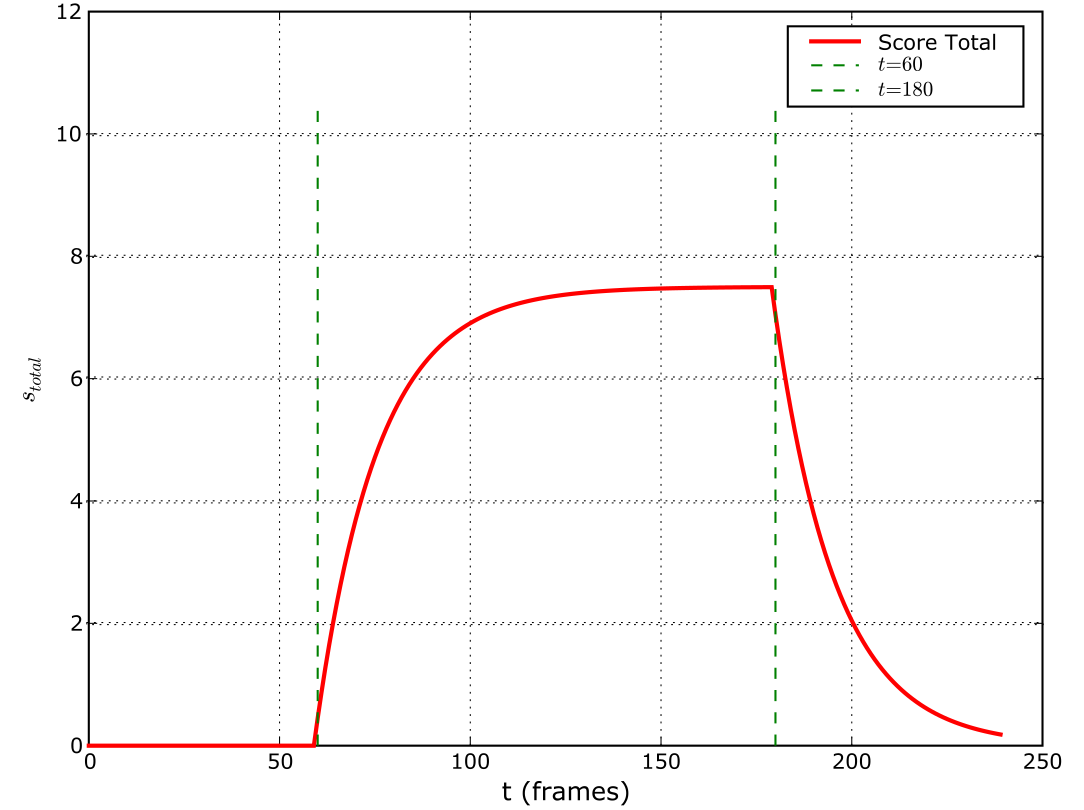
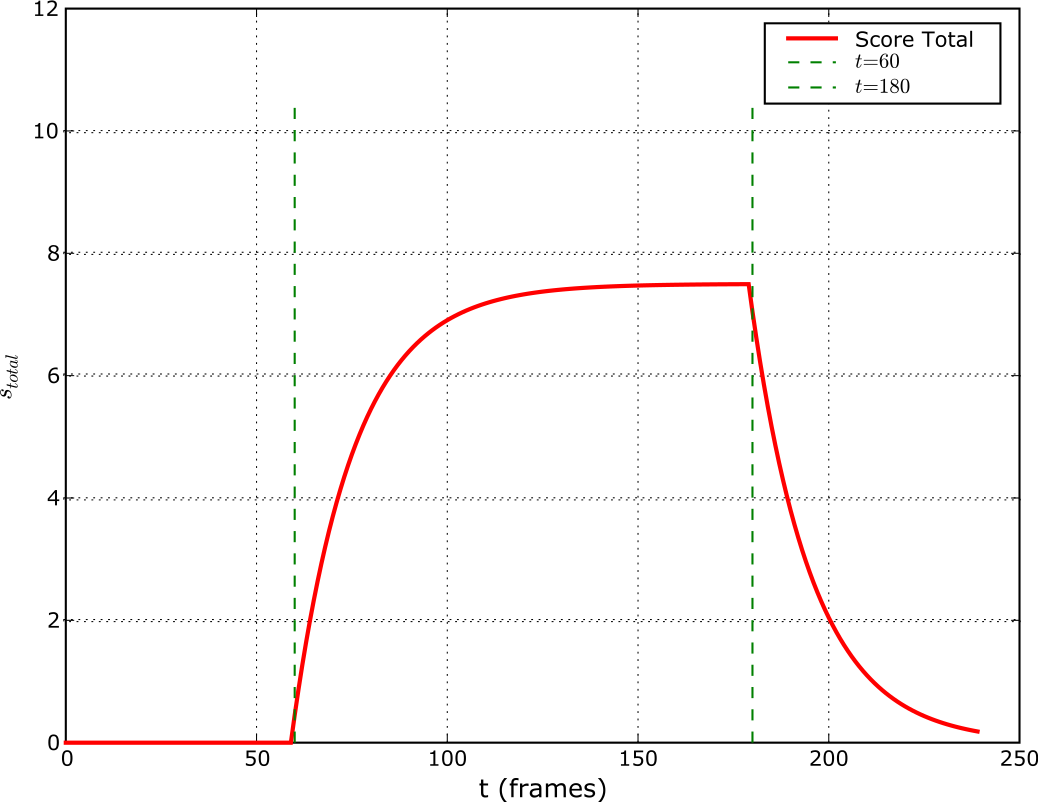
ch2 cleanup 36

diff --git a/chapitre2.tex b/chapitre2.tex
@@ -721,7 +721,7 @@ La technique \emph{AttachedShock} s'est montrée meilleure que toutes les autres
 		\begin{subfigure}[t]{0.49\textwidth}
 			\centering
 			\includegraphics[width=\textwidth]{figures/ch2/smartRayLocation}
-			\caption{Pour les cibles dont les identifiants sont faibles (plutôt situées vers la gauche) le \emph{Smart Ray} fournit de bons résultats, mais ils sont très mauvais pour les cibles dont les identifiants sont élevés (à droite). Or, tous les sujets de l'évaluation étaient droitiers, donc le rayon venait également de la droite, et rencontrait beaucoup d'obstacles.}
+			\caption{Pour les cibles dont les identifiants sont faibles (plutôt situées vers la gauche) le \emph{Smart Ray} fournit de bons résultats, mais ils sont mauvais pour les cibles d'identifiant sont élevé (à droite). Tous les sujets de l'évaluation étaient droitiers, donc le rayon venait également de la droite, et rencontrait beaucoup d'obstacles.}
 			\label{fig:smartRayLocation}
 		\end{subfigure}
 		\caption[Performances du \emph{raycasting} avec désambiguïsation]{Performances du \emph{raycasting} avec désambiguïsation. Crédit : \cite{grossman2006design}.}
@@ -892,10 +892,10 @@ La technique \emph{AttachedShock} s'est montrée meilleure que toutes les autres
 	
 	En pratique, dans~\cite{kopper2011rapid}, SQUAD fut évaluée avec des objets uniformes : des sphères de rayons identiques. Seule la couleur variait, avec du gris pour des distracteurs et du rouge pour la cible à sélectionner, comme on le voit sur la figure~\ref{fig:squad2}. 
 	
-	\begin{figure}[H]
+	\begin{figure}[!htb]
 		\centering
 		\includegraphics[width=\textwidth]{figures/ch2/squad2}
-		\caption[La technique SQUAD -- évaluation]{La technique SQUAD telle qu'évaluée dans~\cite{kopper2011rapid}. Dans la première phase (à gauche) les petites sphères sont réparties sur la surface d'une grande sphère invisible centrée sur l'utilisateur, de sorte qu'elles sont toutes à la même distance de lui, afin qu'elles aient toutes une taille apparente égale une fois projetées sur l'écran. La cible à saisir est identifiée par sa couleur rouge, ce qui la rend facile à repérer, notamment dans la seconde phase, à droite. Seule l'orientation du périphérique de pointage était prise en compte dans la première phase, et les sujets avaient pour consigne de maintenir la sa position dans une zone déterminée. Crédit : \cite{kopper2011rapid}.}
+		\caption[La technique SQUAD -- évaluation]{SQUAD tel qu'évalué dans~\cite{kopper2011rapid}. Dans la première phase (à gauche) les petites sphères sont réparties sur la surface d'une grande sphère invisible centrée sur l'utilisateur, de sorte qu'elles sont toutes à la même distance de lui, afin qu'elles aient toutes une taille apparente égale une fois projetées sur l'écran. La cible à saisir est identifiée par sa couleur rouge. Seule l'orientation du périphérique de pointage était prise en compte dans la première phase, et les sujets avaient pour consigne de maintenir sa position dans une zone déterminée. Crédit : \cite{kopper2011rapid}.}
 		\label{fig:squad2}
 	\end{figure}
 	
@@ -906,14 +906,14 @@ La technique \emph{AttachedShock} s'est montrée meilleure que toutes les autres
 		\begin{subfigure}[t]{0.49\textwidth}
 			\centering
 			\includegraphics[width=\textwidth]{figures/ch2/squadDensity}
-			\caption{Performances de SQUAD en fonction de la densité de distracteurs, comparées avec celle du \emph{raycasting} classique. Les performances de ce dernier ne sont pas significativement modifiées par la densité, même si une légère corrélation est visible, peut-être due au rallongement de la recherche visuelle de la cible. En effet, l'ID n'est pas modifié par la densité, mais le temps de réaction peut l'être. Les performances de SQUAD sont fortement affectées, car le nombre d'étapes dépend de la densité. SQUAD brille dans les conditions de faible densité, mais se montre désavantageuse quand les distracteurs sont nombreux.}
+			\caption{Performances de SQUAD en fonction de la densité de distracteurs, comparées avec celle du \emph{raycasting}. Les performances de ce dernier ne sont pas significativement modifiées par la densité, même si une légère corrélation est visible, peut-être due à la recherche visuelle de la cible. Les performances de SQUAD sont fortement affectées, car le nombre d'étapes dépend de la densité. SQUAD brille dans les conditions de faible densité, mais se montre désavantageuse quand les distracteurs sont nombreux.}
 			\label{fig:squadDensity}
 		\end{subfigure}
 		~
 		\begin{subfigure}[t]{0.49\textwidth}
 			\centering
 			\includegraphics[width=\textwidth]{figures/ch2/squadSize}
-			\caption{Performances de SQUAD comparées avec celles du \emph{raycasting}, en fonction de la taille des cibles, et pour différentes densités de distracteurs. Les performances du \emph{raycasting} sont une moyenne de ses performances sur toutes les densités, puisqu'elles n'en dépendent pas. La technique SQUAD se montre plus performante à faible densité, et se montre capable de gérer de très petites cibles sans augmentation notable du temps de sélection, ce qui est très intéressant pour certaines applications. Pour les cas les plus faciles avec de grosses cibles, on préférera le \emph{raycasting}, en particulier dans ses formes améliorées.}
+			\caption{Performances de SQUAD comparées avec celles du \emph{raycasting}, en fonction de la taille des cibles, avec différentes densités de distracteurs. Les performances du \emph{raycasting} sont une moyenne de ses performances sur toutes les densités, puisqu'elles n'en dépendent pas. SQUAD se montre plus performante à faible densité, et capable de gérer de très petites cibles sans augmentation notable du temps de sélection, ce qui est intéressant pour certaines applications. Avec de grosses cibles, on préférera le \emph{raycasting}, en particulier dans ses formes améliorées.}
 			\label{fig:squadSize}
 		\end{subfigure}
 		\caption[Performances de SQUAD]{Performances de SQUAD. Crédit : \cite{kopper2011rapid}.}
@@ -925,7 +925,7 @@ La technique \emph{AttachedShock} s'est montrée meilleure que toutes les autres
 	\begin{figure}[!htb]
 		\centering
 		\includegraphics[width=0.65\textwidth]{figures/ch2/squadRecap}
-		\caption[SQUAD -- résultats : taille]{Performances de SQUAD en fonction de la taille de la cible, comparées avec celles du \emph{raycasting}. Les performances de SQUAD ne sont pas significativement modifiées par la taille, même si une légère corrélation négative est visible, peut-être due au rallongement de la recherche visuelle de la cible quand elle est petite. En effet, l'ID n'est pas modifié par la taille de la cible, mais le temps de réaction peut l'être. En revanche, les performances du \emph{raycasting} sont fortement affectées, puisqu'une petite cible a un ID bien plus élevé. SQUAD brille particulièrement avec de petites cibles, mais se montre désavantageuse quand elles sont grandes. Crédit : \cite{kopper2011rapid}.}
+		\caption[SQUAD -- résultats : taille]{Performances de SQUAD en fonction de la taille de la cible, comparées avec celles du \emph{raycasting}. Les performances de SQUAD ne sont pas significativement modifiées par la taille, même si une légère corrélation négative est visible, peut-être due à la recherche visuelle de la cible quand elle est petite. En revanche, les performances du \emph{raycasting} sont fortement affectées, puisqu'une petite cible a un ID bien plus élevé. SQUAD brille particulièrement avec de petites cibles, mais se montre désavantageuse quand elles sont grandes. Crédit : \cite{kopper2011rapid}.}
 		\label{fig:squadRecap}
 	\end{figure}
 	
@@ -942,7 +942,7 @@ La technique \emph{AttachedShock} s'est montrée meilleure que toutes les autres
 	\subsubsection{Principe et avantages}
 	La technique du \emph{Disambiguation Canvas}~\cite{debarba2013disambiguation} est un autre exemple de technique de sélection en cascade, et est illustrée par la figure~\ref{fig:dCanvas}.
 		 
-	\begin{figure}[H]
+	\begin{figure}[!htb]
 		\centering
 		\includegraphics[width=\textwidth]{figures/ch2/dCanvas}
 		\caption[\emph{Disambiguation Canvas}]{\emph{Disambiguation Canvas}. (a) : L'utilisateur pointe vers la région de l'espace où l'objet de son intérêt est situé ; cette pré-sélection se fait par \emph{volume casting}, c'est-à-dire que le périphérique de pointage contrôle un volume de sélection dans l'espace virtuel. (b) : Une fois la pré-sélection faite, une \og toile \fg{} (\emph{canvas}) de sélection (un rectangle semi-transparent) s'ouvre, les cibles pré-sélectionnées y sont disposées et agrandies. La toile de sélection correspond à un \emph{mapping} absolu de l'écran tactile d'un périphérique de saisie, ce qui permet à l'utilisateur de sélectionner la cible avec son pouce. Cette technique est compatible avec les HMD, et n'affiche pas le petit encadré en bas à gauche de chaque image, inséré ici à des fins illustratives. Crédit : \cite{debarba2013disambiguation}.}
@@ -996,7 +996,7 @@ La technique \emph{AttachedShock} s'est montrée meilleure que toutes les autres
 	
 	\begin{figure}[!htb]
 		\centering
-		\includegraphics[width=0.90\textwidth]{figures/ch2/dCanvasSPerf}
+		\includegraphics[width=0.85\textwidth]{figures/ch2/dCanvasSPerf}
 		\caption[\emph{Disambiguation Canvas} -- performances II]{Temps de sélection du \emph{Disambiguation Canvas}, comparées à celles de SQUAD, en fonction du nombre de cibles. Les résultats sont clairement en faveur de la première technique sur l'intervalle testé. Crédit : \cite{debarba2013disambiguation}.}
 		\label{fig:dCanvasSPerf}
 	\end{figure}
@@ -1037,7 +1037,7 @@ La technique \emph{AttachedShock} s'est montrée meilleure que toutes les autres
 		\begin{subfigure}[t]{0.44\textwidth}
 			\centering
 			\includegraphics[width=\textwidth]{figures/ch2/delphianPeak}
-			\caption{Vitesse d'un curseur pendant une tâche de pointage. Il accélère au cours de la phase de balistique (\emph{Plan time}) puis décélère pendant la phase de correction (\emph{Adjustment time}).}
+			\caption{Vitesse du curseur. Il accélère au cours de la première phase (\emph{Plan time}) puis décélère (\emph{Adjustment time}).}
 			\label{fig:delphianPeak}
 		\end{subfigure}
 		~
@@ -1289,7 +1289,7 @@ La technique \emph{AttachedShock} s'est montrée meilleure que toutes les autres
 	
 	\begin{figure}[!htb]
 		\centering
-		\includegraphics[width=0.9\textwidth]{figures/ch2/intensMD}
+		\includegraphics[width=0.80\textwidth]{figures/ch2/intensMD}
 		\caption[Sélection d'un atome dans une simulation de dynamique moléculaire]{Schéma illustrant la sélection d'un atome dans une simulation de dynamique moléculaire. L'environnement très dense rend la tâche particulièrement difficile. Crédit : \cite{de2005intenselect}.}
 		\label{fig:intensMD}
 	\end{figure}
@@ -1309,20 +1309,20 @@ La technique \emph{AttachedShock} s'est montrée meilleure que toutes les autres
 	\subsubsection{Test d'appartenance au volume de sélection}
 	Le volume de sélection est un simple cône, et pour chaque point donné, il suffit de vérifier s'il est dans le cône pour déterminer s'il est dans le volume de sélection, et donc s'il doit être pris en compte pour l'étape 2 de l'algorithme. Le détail du test d'appartenance est fourni par la figure~\ref{fig:intensCone}.
 	
-	\begin{figure}[H]
+	\begin{wrapfigure}{O}{0.5\textwidth} % Capital O makes the figure float, because that's totally intuitive and obvious.
 		\centering
-		\includegraphics[width=\textwidth]{figures/ch2/intensCone}
-		\caption[\emph{IntenSelect} -- test d'appartenance au volume de sélection]{Schéma illustrant le test d'appartenance du point $P$ au volume de sélection d'\emph{IntenSelect}. Notez que $d_{perp}$ est la distance entre $P$ et sa projection sur le rayon, et $d_{proj}$ est la distance entre cette projection et l'origine du rayon. De plus, $\beta_{cone}$ est l'angle d'ouverture du cône de sélection, et $\alpha$ est l'angle formé par le rayon et la droite passant par l'origine du rayon et par $P$. Si $\alpha < \beta_{cone}$, alors $P$ est dans le volume de sélection. Crédit : \cite{de2005intenselect}.}
+		\includegraphics[width=0.46\textwidth]{figures/ch2/intensCone}
+		\caption[\emph{IntenSelect} -- test d'appartenance au volume de sélection]{Test d'appartenance de $P$ au volume de sélection d'\emph{IntenSelect} : $d_{perp}$ est la distance entre $P$ et sa projection sur le rayon, et $d_{proj}$ est la distance entre cette projection et l'origine du rayon ; $\beta_{cone}$ est l'angle d'ouverture du cône de sélection, et $\alpha$ est l'angle formé par le rayon et la droite passant par l'origine du rayon et par $P$. Si $\alpha < \beta_{cone}$, $P$ est dans le volume de sélection. Crédit : \cite{de2005intenselect}.}
 		\label{fig:intensCone}
-	\end{figure}
+	\end{wrapfigure}
 	
 	\subsubsection{Métrique}
 	La métrique utilisée dans l'étape 2 est illustrée par la figure~\ref{fig:intensMetric}.
 	
-	\begin{figure}[H]
+	\begin{figure}[!htb]
 		\centering
-		\includegraphics[width=\textwidth]{figures/ch2/intensMetric}
-		\caption[Métrique de \emph{scoring} de la technique \emph{IntenSelect}]{Schéma illustrant la métrique de \emph{scoring} de la technique \emph{IntenSelect}. Il s'agit du cône de sélection vu de côté, où la surface du cône est tracée en pointillés rouge et le rayon en noir. Un point P quelconque inclus dans le cône est placé ici à des fins purement illustratives. La valeur de la métrique est indiquée par la nuance de girs/bleu : en blanc, la métrique vaut 1 ; en noir, elle vaut 0. Crédit : \cite{de2005intenselect}.}
+		\includegraphics[width=0.70\textwidth]{figures/ch2/intensMetric}
+		\caption[Métrique de \emph{scoring} de la technique \emph{IntenSelect}]{Métrique de \emph{scoring} d'\emph{IntenSelect}. Il s'agit du cône de sélection vu de côté, où sa surface est tracée en pointillés rouge et le rayon en noir, avec un point P quelconque inclus dans le cône. La valeur de la métrique est indiquée par la nuance de gris/bleu : en blanc, elle vaut 1 ; en noir, 0. Crédit : \cite{de2005intenselect}.}
 		\label{fig:intensMetric}
 	\end{figure}
 	
@@ -1340,22 +1340,22 @@ La technique \emph{AttachedShock} s'est montrée meilleure que toutes les autres
 	
 	Un exemple synthétique d'accumulation de score par une cible d'abord hors du volume de sélection, puis dedans, puis à nouveau dehors est représenté sur la figure~\ref{fig:intensAccumul}.
 	
-	\begin{figure}[H]
+	\begin{figure}[!htb]
 		\centering
-		\includegraphics[width=\textwidth]{figures/ch2/intensAccumul}
-		\caption[\emph{IntenSelect} -- accumulation de score]{Représentation d'un exemple synthétique d'accumulation de score pour une cible. À partir de $t = 60$, la cible est précisément sélectionnée par le cône et son score augmente ; à $t = 180$, elle n'est plus, et son score diminue rapidement. Crédit : \cite{de2005intenselect}.}
+		\includegraphics[width=0.75\textwidth]{figures/ch2/intensAccumul}
+		\caption[\emph{IntenSelect} -- accumulation de score]{Exemple d'accumulation de score pour une cible. À partir de $t = 60$, la cible est précisément sélectionnée par le cône et son score augmente ; à $t = 180$, elle n'est plus, et son score diminue rapidement. Crédit : \cite{de2005intenselect}.}
 		\label{fig:intensAccumul}
 	\end{figure}
 	
 	\subsubsection{Retour (\emph{feedback})}
 	À tout instant $t$, l'objet dont le score accumulé est maximal est considéré comme la cible choisie ou active. Le rayon est tracé à l'aide de la suite \emph{Virtual SprintTools}~\cite{koutek2001spring} qui détermine une courbe de Bézier atteignant la cible visée (ou du moins estimée). Ce fonctionnement est illustré sur la figure~\ref{fig:intenSnap}.
-	
-	\begin{figure}[H]
+
+	\begin{wrapfigure}{O}{0.5\textwidth} % Capital O makes the figure float, because that's totally intuitive and obvious.
 		\centering
-		\includegraphics[width=\textwidth]{figures/ch2/intenSnap}
+		\includegraphics[width=0.46\textwidth]{figures/ch2/intenSnap}
 		\caption[\emph{IntenSelect} -- \emph{Snapping feedback}]{Schéma représentant la technique \emph{IntenSelect} en action. Le rayon de sélection est représenté par un mince trait noir, tandis que le rayon bordeaux se courbe pour atteindre la cible prédite. Crédit : \cite{de2005intenselect}.}
 		\label{fig:intenSnap}
-	\end{figure}
+	\end{wrapfigure}
 	
 	Tant que la cible prédite restera la même, le rayon s'adaptera pour se plier vers elle ; si elle change, le rayon sautera immédiatement vers la nouvelle. L'utilisation d'une heuristique avec une certaine \og inertie \fg{} rend la technique nettement plus robuste pour les sélections difficiles, particulièrement avec des cibles mouvantes (voir la figure~\ref{fig:intenSnap2}).
 	
